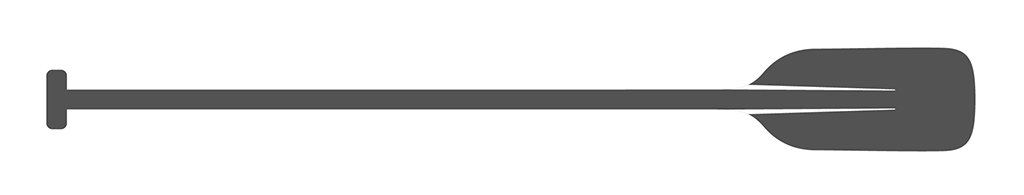
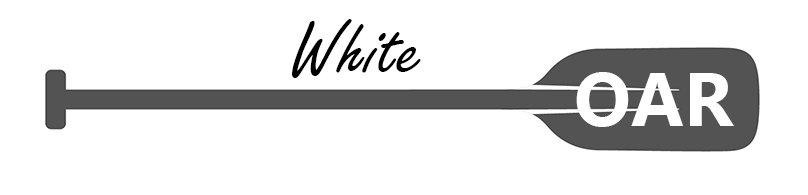
Added index.html for white oar site

Changed region(s): [[0.6498, 0.2154, 0.9592, 0.8], [0.3403, 0.0923, 0.526, 0.4], [0.0309, 0.3385, 0.0928, 0.6769]]

diff --git a/wwr/index.html b/wwr/index.html
@@ -1,0 +1,72 @@
+<!DOCTYPE html>
+<html lang="en">
+<head>
+    <meta charset="UTF-8">
+    <meta http-equiv="X-UA-Compatible" content="IE=edge">
+    <meta name="viewport" content="width=device-width, initial-scale=1.0">
+    <title>White Oar | Home</title>
+</head>
+<body>
+<header>
+    <a id="logo-link" href="index.html">
+        <img class="logo" src="images/white_oar.png" alt="white oar logo">
+    </a>
+    <nav>
+        <a href="index.html">Home</a>
+        <a href="#">Page 2</a>
+        <a href="site-plan-rafting.html">Site Plan</a>
+        <a href="contactus.html">Contact Us</a>
+    </nav>
+</header>
+<div id="hero">
+    <div id="hero-box">
+        <img id="hero-img" src="images/hero.png" alt="People enjoying rafting">
+    </div>
+    <section id="hero-msg">
+        <h1 class="home-title">Have an Adventure</h1>
+        <h4>Make memories with White Oar</h4>
+        <div class="button-box">
+            <a class="book" href="contactus.html">Book Now</a>
+        </div>
+    </section>
+</div>
+<main class="home-grid">
+    <section class="rivers-card">
+        <img class="card.img" src="images/rivers.jpg" alt="river in forrest">
+        <img class="icon" src="images/river_icon.png" alt="river icon">
+        <h2>Rivers</h2>
+    </section>
+    <section class="advice-card">
+        <img class="advice-img" src="images/help.jpg" alt="advice online">
+        <img class="icon" src="images/help_icon.png" alt="help icon">
+        <h2>Ask others</h2>
+    </section>
+    <section class="market-card">
+        <img class="market-img" src="images/market.jpg" alt="market place">
+        <img class="icon" src="images/trade.png" alt="trade icon">
+        <h2>Trade</h2>
+    </section>
+    <img class="mountains" src="images/mountains.jpg" alt="Misty mountains">
+    <section class="msg">
+        <h2>More than just The Thrill</h2>
+        <p>Enjoy the breathtaking scenery. From valleys, meadows, canyons, and high peaks; it's way more than just the rapids. It's a great way to get away from it all and relax amongst all the beauty of the great outdoors.</p>
+    </section>
+</main>
+<footer>
+    <p>White Oar &copy; 2023 - HB Austin</p>
+    <p><a href="site-plan-rafting.html">Site Plan</a></p>
+    <p><a href="contactus.html">Contact Us</a></p>
+    <div class="social">
+        <a href="https://facebook.com">
+            <img src="images/facebook.png" alt="fb icon">
+        </a>
+        <a href="https://instagram.com">
+            <img src="images/insta.png" alt="insta logo">
+        </a>
+        <a href="https://twitter.com">
+            <img src="images/twitter.png" alt="twitter logo">
+        </a>
+    </div>
+</footer>
+</body>
+</html>
